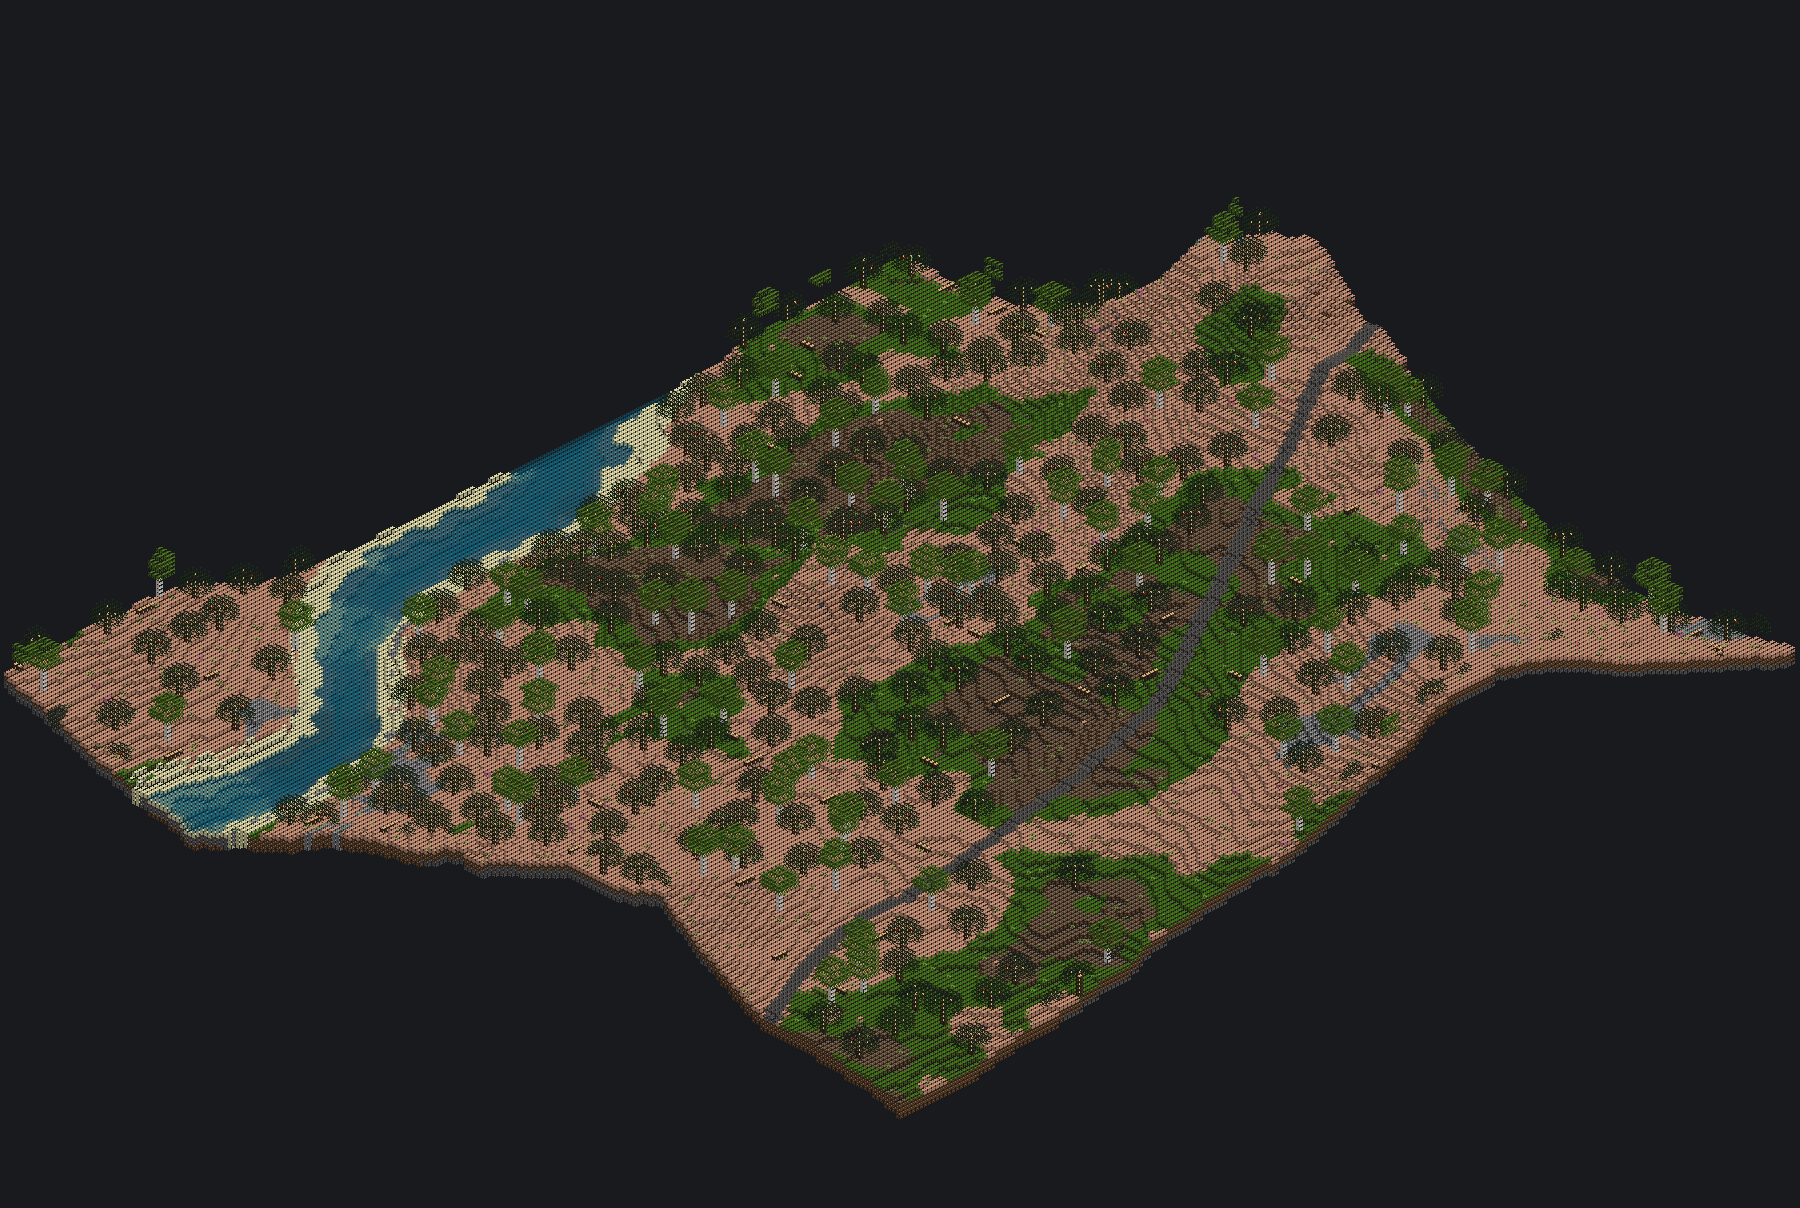
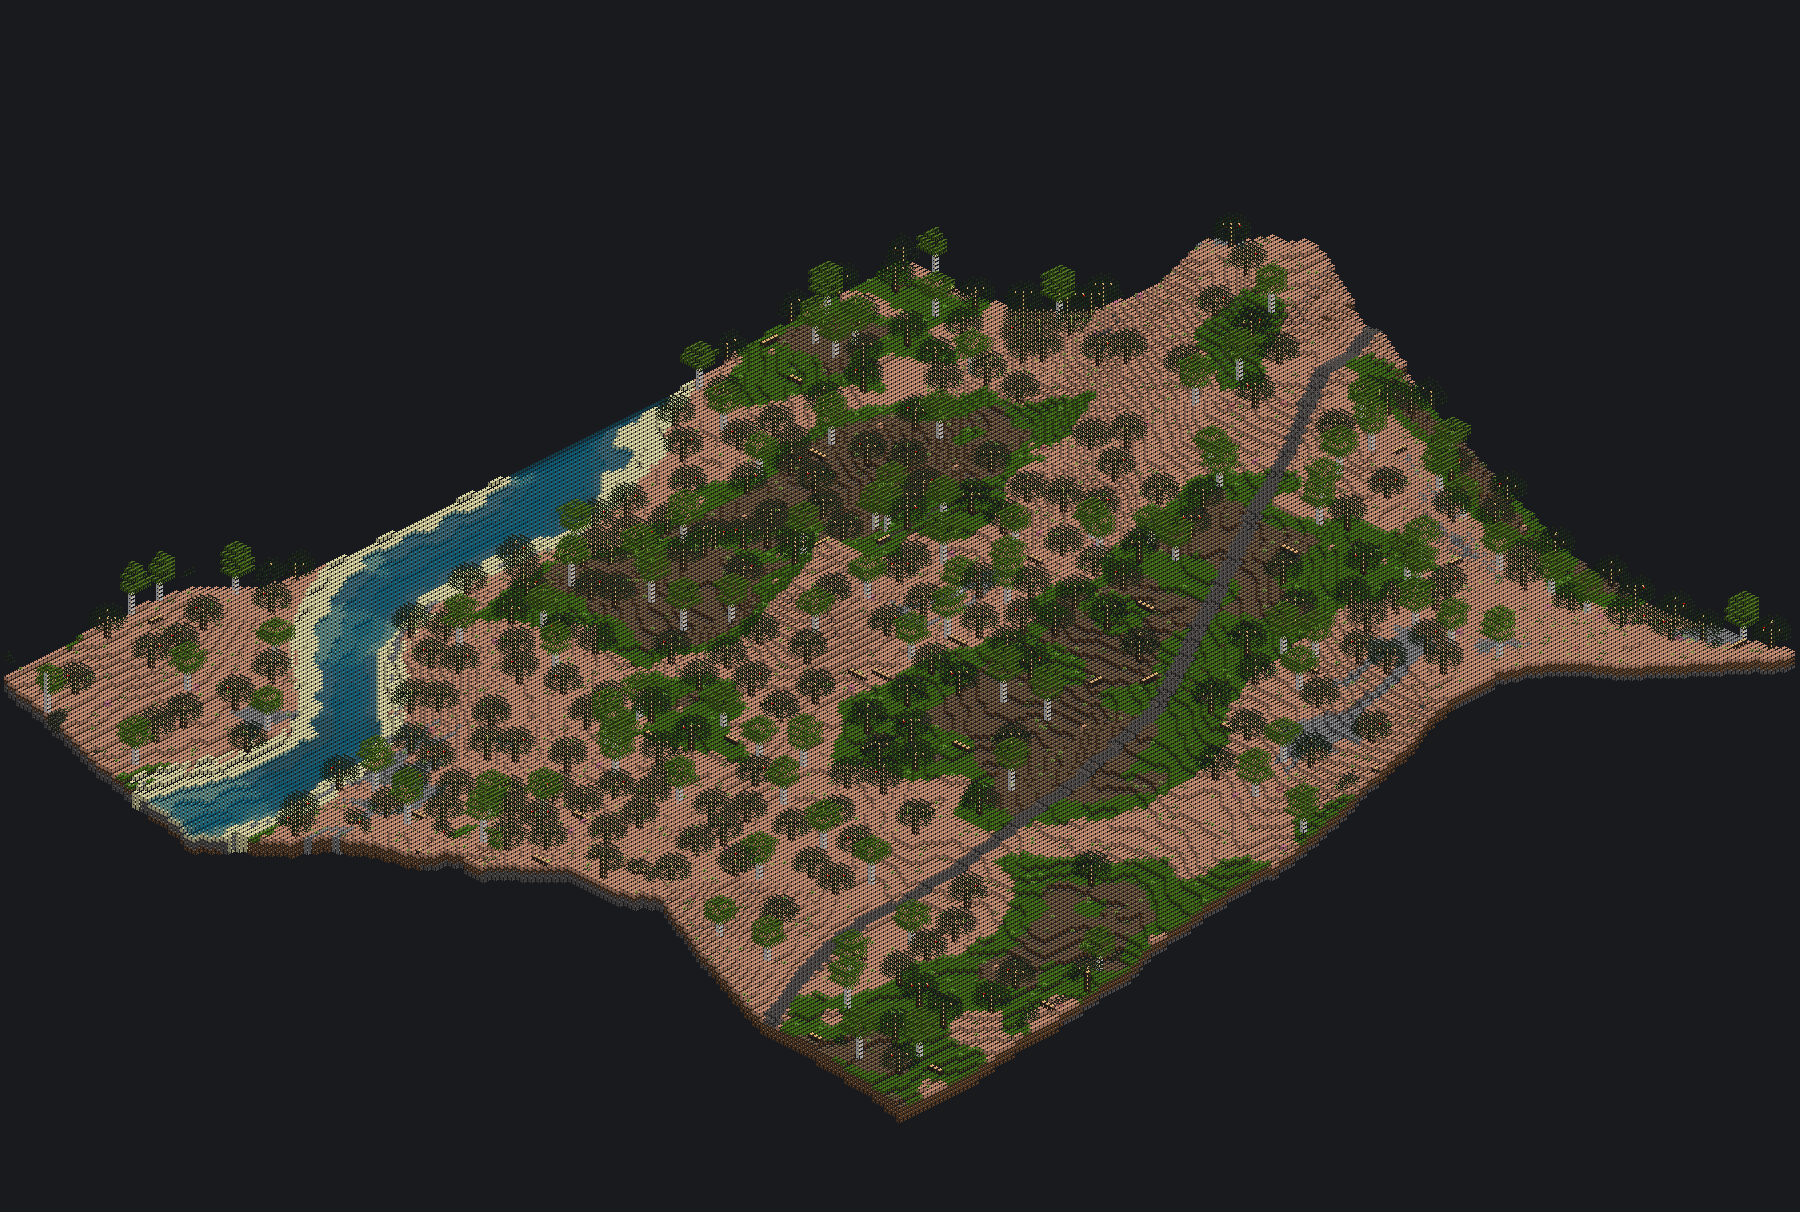
test/docs: tree-line fixture, verify and renewal probe runs after the review fixes

Changed region(s): [[0.0, 0.1838, 1.0, 0.9189]]

diff --git a/docs/research/round23-tree-line.md b/docs/research/round23-tree-line.md
@@ -23,9 +23,15 @@ changes: fresh worlds only.
   dust rows; decoration population 48 → 52.
 - `wp40/r6_planner.lua`: per-column class factors and snow flag in the cell
   scratch; a row's column is eligible with probability factor ÷ (class max ×
-  ONE) by digest bytes 2–3, the cell budget multiplier is the class max
+  ONE) by the digest's last two bytes (31–32; the rank order reads the first
+  bytes, so thinning and ranking do not correlate), the cell budget multiplier is the class max
   (trees 5, shrubs 3, cover 1); columns with snow host no decoration.
-- `wp40/r6_settlement.lua`: passes the zone to the selector (three calls).
+- `wp40/r6_settlement.lua`: passes the zone to the selector (three calls);
+  shrub templates (`shrub`/`shrub_band` rows) skip a non-force cell (a leaf)
+  that would hit ground instead of rejecting the whole bush, as the engine's
+  own schematic placement does (`mg_schematic.cpp` blitToVManip); force
+  cells (the stem) keep the full rule. Production writer and evidence path
+  alike (coordinator decision after review, 2026-09-28).
 - `wp40/zones.lua` + `wp40/planner.lua`: `planner_source.land_zone_at`
   (horizontal classification only) for the normalisation grid.
 - `wp40/r7_r6_manifest.lua`: four band-only rows — `crags_pine_bush`
@@ -62,11 +68,14 @@ Class factors (ONE = catalog density), y = planned terrain height:
 | cover | 1 up to the snow line, 0 from it |||||
 
 F = forest field, D = 1.5 in deep forest and deep jungle (tree class only),
-clamped at 5. F = raw × count_zone / sum_zone, raw = grove × open, grove =
+clamped at 5. F = raw × S(x, z), raw = grove × open, grove =
 (N224 + 160)/672 (0.24–1.76), open = clamp((b − 250)/80, 0, 1) with
-b = (3·N64 + N20)/4; count/sum of raw over the zone's land on a fixed 16-node
-grid (x −3736…3736, z −3336…3336): every zone's mean is one. Construction
-0.24 s under LuaJIT per environment.
+b = (3·N64 + N20)/4. The zone scale of a zone is count/sum of raw over its
+land on a fixed 16-node grid (x −3736…3736, z −3336…3336); S(x, z) is the
+bilinear interpolation of those scales on a 64-node lattice (each lattice
+point carries its own zone's scale, water the world scale), so the scale
+changes by under 0.8 % per node and zone borders show no step (coordinator
+decision after review). Construction 0.24 s under LuaJIT per environment.
 
 Snow class: 2 (snowblock top + snow dust over the column's own filler) at
 y ≥ snow; 1 (dust on the biome's top) in the 20 nodes below where
@@ -110,24 +119,25 @@ Rulings target about 5 % treeless and about 2 % snowy.
 - Portable fixture `luajit tools/r23_tree_line/fixture.lua "$PWD"` (real rule,
   real r6_content selector over a synthetic content contract, real r6_planner,
   real vegetation_density, real zones.lua planner source):
-  `RESULT PASS`, 41 checks, `DIGEST 2072861016`
+  `RESULT PASS`, 43 checks, `DIGEST 1334795136`
   (`tools/r23_tree_line/evidence/fixture.txt`). Covers jitter bounds and
   smoothness, determinism (two rules, 7 heights × 25 000 columns), another
   seed moves the lines, offsets (10 cold biomes, 6 warm, the Skyglass zone),
   every class curve against an independent float reference (worst 1.45/4096),
   the dust band (share 0.96/0.80/0.50/0.20/0.02 at 1/5/10/15/20 below the
   line), deep forests ×1.5; per-zone forest means on an independent grid,
-  two seeds: 0.973–1.018 and 0.980–1.028 over 38 zones, world 0.997/1.002;
+  two seeds: 0.971–1.034 and 0.982–1.033 over 38 zones, world 0.998/1.002,
+  and the interpolated zone scale changes by at most 0.0077 per node;
   the selector (cap rows, patchy band, no snow below it, bare rock faces,
-  savanna 40 higher); the planner on a ramp (27 240 decorations: no tree at or
+  savanna 40 higher); the planner on a ramp (27 269 decorations: no tree at or
   above its line, no shrub beyond the band, none on snow, band-only shrubs and
   the crags pine present), chunk seams (the same cells from different
   planners and from two adjacent 80×80 slices: identical rows), realized trees
-  vs catalog × factor on flat worlds (deep forest 1.002, deep jungle 1.005,
-  pine hills 0.992, elf forest 0.997; ×1.51/1.52/1.00/1.01 against the
+  vs catalog × factor on flat worlds (deep forest 0.996, deep jungle 1.002,
+  pine hills 0.997, elf forest 0.990; ×1.50/1.50/1.00/1.00 against the
   catalog-only planner); renewal densities equal catalog × the planner's
   factors per class at 1 597 sites, nothing on snow; the real Stormvault peak
-  area (seed 4242): 556 decorations, 75 trees, 30 of them in the thinning
+  area (seed 4242): 558 decorations, 77 trees, 32 of them in the thinning
   band, no violation.
 - Renewal fixture `tools/r23_renewal/fixture.lua` updated to the tree/shrub
   split (rule from seed "1041", whose fixture area lies in groves): `RESULT
@@ -137,7 +147,7 @@ Rulings target about 5 % treeless and about 2 % snowy.
   no SETGLOBAL.
 - No PUC run (mapgen exemption).
 
-## Engine runs (budget about 4 × ≤ 5 min)
+## Engine runs (budget about 4 × ≤ 5 min, plus 2 after the review)
 
 All through `tools/luanti_headless.sh` via `tools/r23_tree_line/run_dump.sh`
 (fresh isolated user path, `LC_ALL=C`, `chrt --idle 0 ionice -c3`, seed 4242),
@@ -154,6 +164,13 @@ one at a time.
    (`evidence/verify-summary.txt`, `verify-chunks.log.gz`); then both render
    boxes dumped; normal shutdown, about 2 min, no ERROR.
 4. Before, the same dumps from an exported main tree (about 1.5 min, PASS).
+5. After the review fixes (shrub leaves, interpolated zone scale, thinning
+   bytes): run 3 again on the final bytes, about 2 min, PASS, no ERROR:
+   **67 fast-path chunks compared, 0 differ**; both after renders replaced.
+6. The renewal engine probe `tools/r23_renewal/run.sh` (idle priority, about
+   2 min): `RESULT PASS (31 checks, 0 failures)`, now with the tree class;
+   every sapling species grows, service mean 247 µs, worst 1167 µs
+   (`tools/r23_renewal/evidence/probe.txt`).
 
 Snow dust sits at terrain + 1, inside the preparation envelope's `above`
 reach (≥ tallest template + 1), so `preparation_source.lua` and the fast-path
@@ -166,9 +183,12 @@ bounds needed no change; run 3 confirms it on a mountain above the snow line.
   −1041, z −896…−673, y 93–442 (crags and snowy crags). Surface tops in the
   dump: before gravel 22 621 / stone 19 274 / snow dust 8 221 (snowy crags
   only); after snow 27 204 / gravel 13 061 / stone 9 860 (rock faces stay
-  bare). Crags pine trunks 21 → 11.
+  bare). Crags pine trunks 21 → 6; pine bush stems 0 → 58.
+  `mountain-before-ne.png` / `mountain-after-ne.png` show the same box from
+  the opposite corner, where the band faces the camera: the pine bush belt
+  below the patchy snow and the snowy pines as the last trees.
 - `forest-before.png` / `forest-after.png`: Ashenward March deep forest,
-  x 240…463, z −768…−545, y 37–150. Trunk columns 1 276 → 1 552 (×1.22: the
+  x 240…463, z −768…−545, y 37–150. Trunk columns 1 276 → 1 507 (×1.18: the
   deep-forest ×1.5 times this box's local field mean, which contains a large
   clearing); visible groves and open ground.
 
@@ -185,20 +205,18 @@ reach the snow line); shrubs and cover do not follow the forest field.
 
 ## Findings and open points
 
-- **Steep crags keep few shrubs.** In the mountain render box the planner
-  places 72 crags pine bushes and 20 crags pines (portable planner, same
-  seed), the writer keeps 1 bush and 11 pines: templates are rejected where a
-  cell would replace natural ground (existing writer rule, e.g. a 3×3 bush on
-  a slope). The shrub belt therefore shows mainly on gentler band ground
-  (pine hills, bone forest, deep forest). A lower-profile shrub or a
-  slope-tolerant placement would be a separate decision.
+- **Shrubs on steep crags (resolved).** Before the review fix the writer
+  kept 1 of 72 planned crags pine bushes in the mountain box: a 3×3 bush on a
+  slope was rejected whole. With leaves skipped against ground, run 5 keeps
+  **58 of 68 planned bushes (85 %)** (planned: portable planner, same seed and
+  bytes). Crags pines keep the whole-template rule: 6 of 18 planned stand.
 - The crags pine bush does not renew (sapling needs soil; crags are gravel).
 - Realized density is still limited by template collisions; dense groves lose
   a few more trees to overlap than open woodland (not measured).
-- The zone normalisation makes the forest factor step slightly at zone
-  borders (per-zone scale about 1.0–1.7 of the raw field).
-- The renewal engine probe (`tools/r23_renewal/grug_probe_renewal`) was
-  updated to the tree class but not re-run.
+- Zone-border steps of the forest scale are resolved by the 64-node
+  interpolation; zone means stay within 0.97–1.03.
+- A skipped bush leaf leaves its box reserved (occupancy), as an accepted
+  bush always did.
 
 ## Runtime test plan (fresh world)
 

diff --git a/docs/design/world_zones.md b/docs/design/world_zones.md
@@ -757,10 +757,13 @@ replaced; git history before this rewrite records that model.
     from a 224-node field (0.24–1.76 of the mean) times clearings from a
     64/20-node field (zero below a threshold, a short ramp above), which
     gives groves of roughly 150–300 nodes and clearings of 40–100. The field
-    is rescaled per zone so that its mean over each zone's land (a fixed
-    16-node grid) is exactly one: every zone keeps its mean tree density
-    (measured per zone within ±3 %). Deep forest and deep jungle trees are
-    then multiplied by 1.5. Shrubs and ground cover are not affected.
+    is rescaled per zone: each zone's scale makes its mean over the zone's
+    land (a fixed 16-node grid) one, and the scales are interpolated
+    bilinearly from a 64-node lattice (each lattice point takes the scale of
+    its zone), so no zone border shows a step and every zone keeps its mean
+    tree density within a few percent (measured 0.97–1.03). Deep forest and
+    deep jungle trees are then multiplied by 1.5. Shrubs and ground cover are
+    not affected.
   - **Planner.** Each decoration row's class (tree, last tree, shrub,
     band-only shrub, cover) picks one factor per column. A column is eligible
     with probability factor ÷ (class maximum), the class maximum being 5 for
@@ -768,6 +771,11 @@ replaced; git history before this rewrite records that model.
     by the class maximum, so the expected placements are the catalog density
     times the factor. Cover rows keep their former eligibility wherever the
     factor is one.
+  - **Shrubs on slopes.** Shrub templates (the shrub and band-only shrub
+    rows) place like the engine's own schematics: a leaf (a cell without
+    force placement) that would hit ground is left out instead of rejecting
+    the whole bush. The stem keeps the full rule, so no bush floats or buries
+    its stem. Trees keep the whole-template clearance rule.
 - **Substrate.** Native v7 remains the substrate for caves, ores, dungeons
   and strata, but its heightmap never selects the final surface, a mask, an
   operation or a priority. The writer may read that heightmap only as a local
